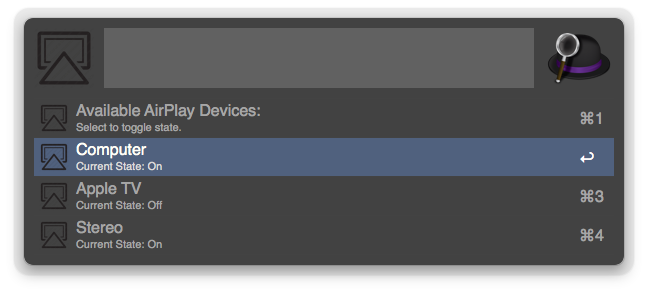
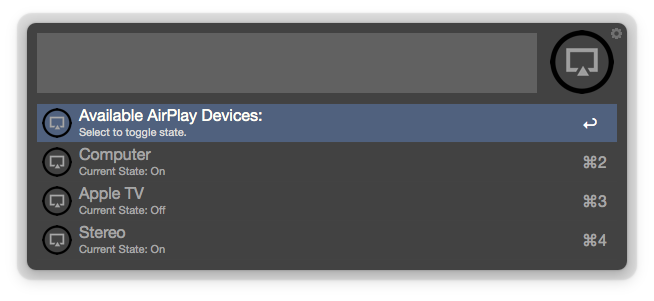
v1.2
New Icon

diff --git a/README.md b/README.md
@@ -3,6 +3,7 @@ iTunes Airplay Toggle
 
 Alfred 2 Workflow to toggle the playing state of your Airplay devices.
 
-v0.2 - Updated per iTunes 11.1. Minor changes to Applescript handling needed.
-v1.0 - Packal release version.
-v1.01 - Fixed XML results ordering error.
+- **v1.1** New Icon (modified from here:http://www.alessioatzeni.com/metrize-icons/).
+- **v1.01** Fixed XML results ordering error.
+- **v1.0** Packal release version.
+- **v0.2** Updated per iTunes 11.1. Minor changes to Applescript handling needed.
